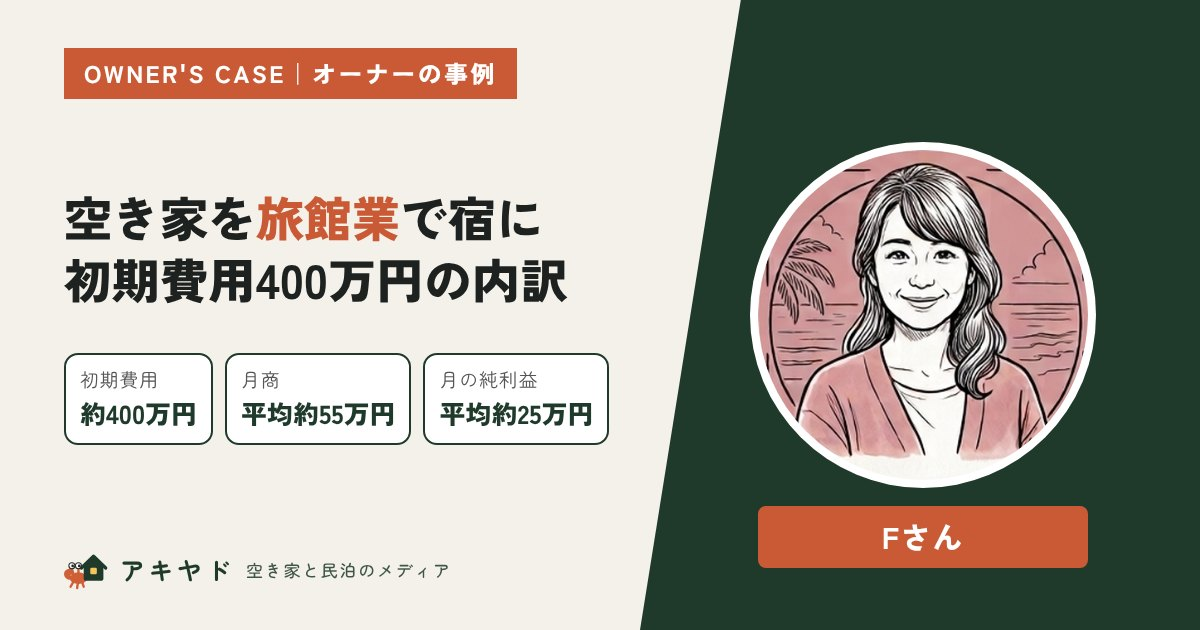
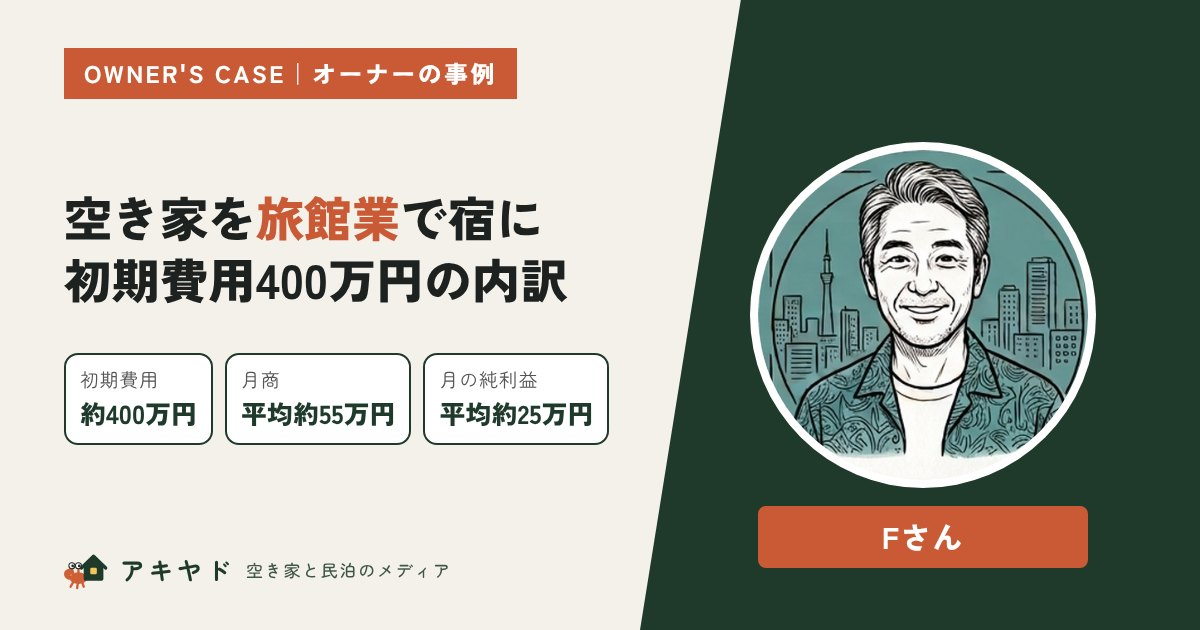
Fさんの事例のアイキャッチの似顔絵を、本文の吹き出し（6番）にそろえる
Claude-Session: https://claude.ai/code/session_01Q9Sd92JZFxARHA3T4sXZvQ

Changed region(s): [[0.6167, 0.2413, 0.925, 0.754]]

diff --git a/tools/eyecatch_designs.py b/tools/eyecatch_designs.py
@@ -23,7 +23,7 @@ DESIGNS = {
     "case-owner-subsidy-akiya": dict(layout="case", avatar=3, who="Cさん", lines=["改装の自己資金100万円で", "空き家を[宿]に"], chips=[("改装の予算", "約450万円"), ("月商", "約45万円"), ("月の純利益", "15〜18万円")]),
     "case-owner-fishing-port": dict(layout="case", avatar=6, who="Dさんご夫婦", lines=["実績ゼロで[融資400万円]", "元・仕出し屋が宿に"], chips=[("工事費用", "約500万円"), ("月商", "60〜70万円"), ("月の純利益", "20〜30万円")]),
     "case-owner-rental-side-business": dict(layout="case", avatar=4, who="Eさん", lines=["[週1〜2時間]で民泊副業", "会社員のまま始めた"], chips=[("初期費用", "約200万円"), ("月商", "約40万円"), ("月の純利益", "12〜15万円")]),
-    "case-owner-licensed-akiya": dict(layout="case", avatar=5, who="Fさん", lines=["空き家を[旅館業]で宿に", "初期費用400万円の内訳"], chips=[("初期費用", "約400万円"), ("月商", "平均約55万円"), ("月の純利益", "平均約25万円")]),
+    "case-owner-licensed-akiya": dict(layout="case", avatar=6, who="Fさん", lines=["空き家を[旅館業]で宿に", "初期費用400万円の内訳"], chips=[("初期費用", "約400万円"), ("月商", "平均約55万円"), ("月の純利益", "平均約25万円")]),
     "case-owner-setouchi-cycling": dict(layout="case", avatar=1, who="Gさんご夫婦", lines=["空き店舗を", "[サイクリスト]の宿に"], chips=[("総予算", "約400万円"), ("月商", "40〜45万円"), ("月の純利益", "12〜15万円")]),
     "case-owner-castle-town-nagaya": dict(layout="case", avatar=3, who="Hさんご夫婦", lines=["城下町の[古い長屋]を宿に", "融資の3つの関門"], chips=[("総予算", "約450万円"), ("月商", "45〜55万円"), ("月の純利益", "15〜18万円")]),
     "case-owner-satoyama-airdna": dict(layout="case", avatar=2, who="Iさんご夫婦", lines=["里山の古民家を宿に", "[データ]で融資を通す"], chips=[("総予算", "約350万円"), ("月商", "45〜50万円"), ("月の純利益", "15〜18万円")]),
